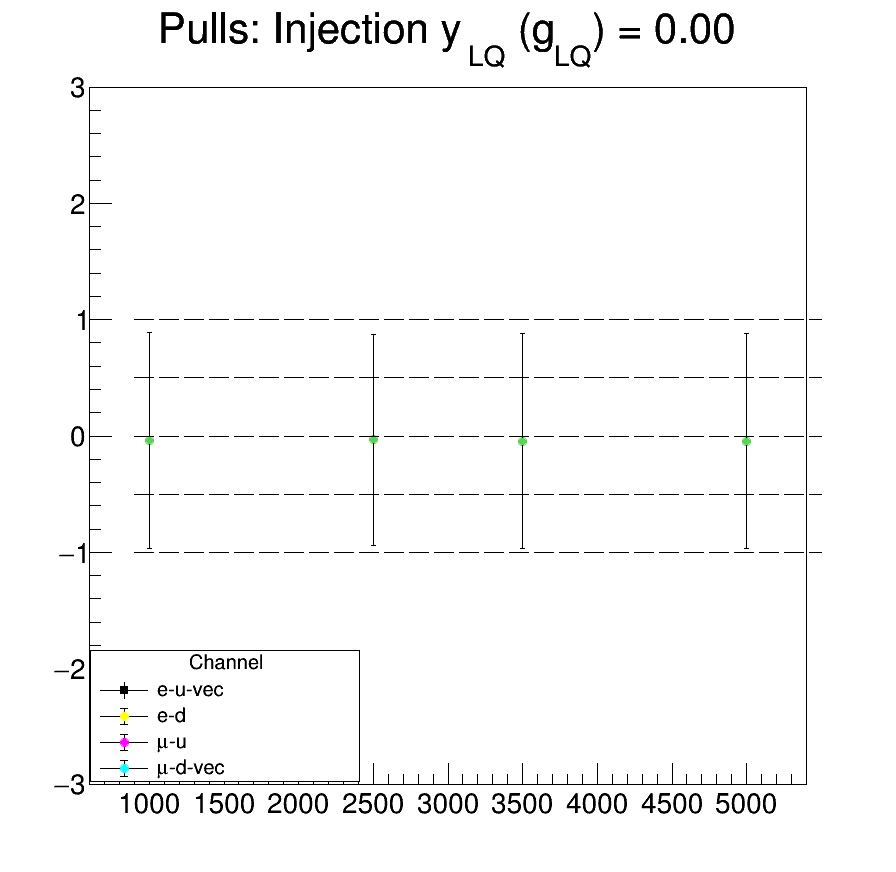
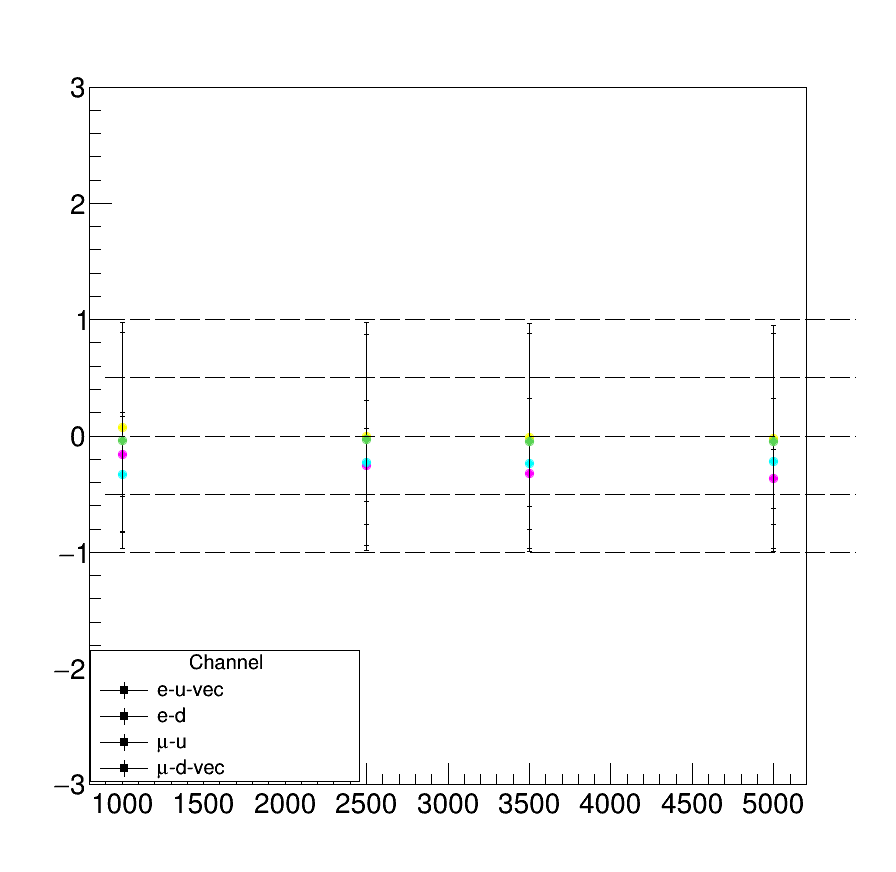
multigraph

diff --git a/analyze/combine/AFB_fits/scripts/LQ_do_bias_test.py b/analyze/combine/AFB_fits/scripts/LQ_do_bias_test.py
@@ -142,6 +142,7 @@ else:
         c4 = TCanvas("c4", "", 900, 900)
         leg = TLegend()
         leg.SetHeader("Channel","C")
+	mg = TMultiGraph()
         l1 = TLine(900,-1,5500,-1)
         l2 = TLine(900,-0.5,5500,-0.5)
         l3 = TLine(900,0,5500,0)
@@ -279,15 +280,17 @@ else:
                 #print(m_list,pull_mean,[0,0,0,0],pull_sigma)
 	        gr.append(TGraphErrors(4, m_list, pull_mean[i], array("d",[0,0,0,0]), pull_sigma[i]))
                 gr[i].SetTitle("Pulls: Injection y_{LQ} (g_{LQ}) = %.2f"%options.yLQ)
-	        gr[i].SetName('gr')
+	        gr[i].SetName('gr%i'%i)
 	        gr[i].SetMarkerStyle(20);
 	        gr[i].SetMarkerColor(mcolor)
-	        leg.AddEntry('gr', chan_label+"-"+options.q+"%s"%("-vec" if is_vec else ""), 'lep') 
-	        gr[i].Draw("AP same")
-	        gr[i].GetYaxis().SetRangeUser(-3.,3.)
+	        leg.AddEntry('gr%i'%i, chan_label+"-"+options.q+"%s"%("-vec" if is_vec else ""), 'lep') 
+	        mg.Add(gr[i])
+	        #gr[i].GetYaxis().SetRangeUser(-3.,3.)
                 mcolor+=1
 		i+=1
-    
+
+    	mg.Draw("AP")
+	mg.GetYaxis().SetRangeUser(-3.,3.)
         leg.Draw("same")
         l1.Draw("same")
         l2.Draw("same")
